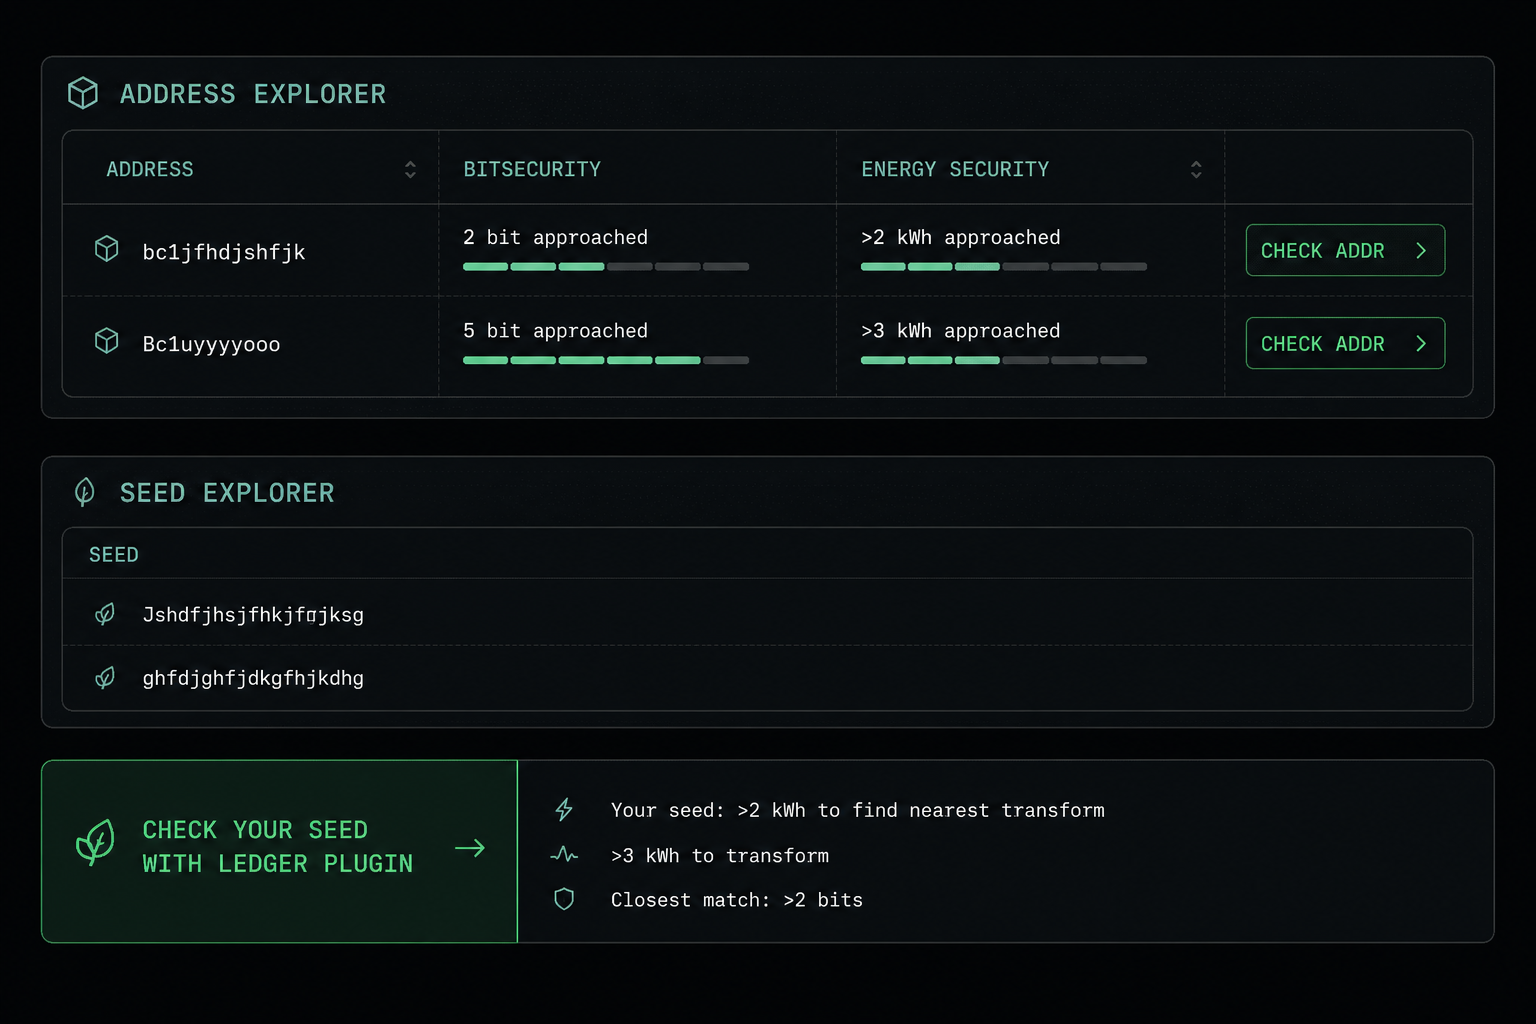
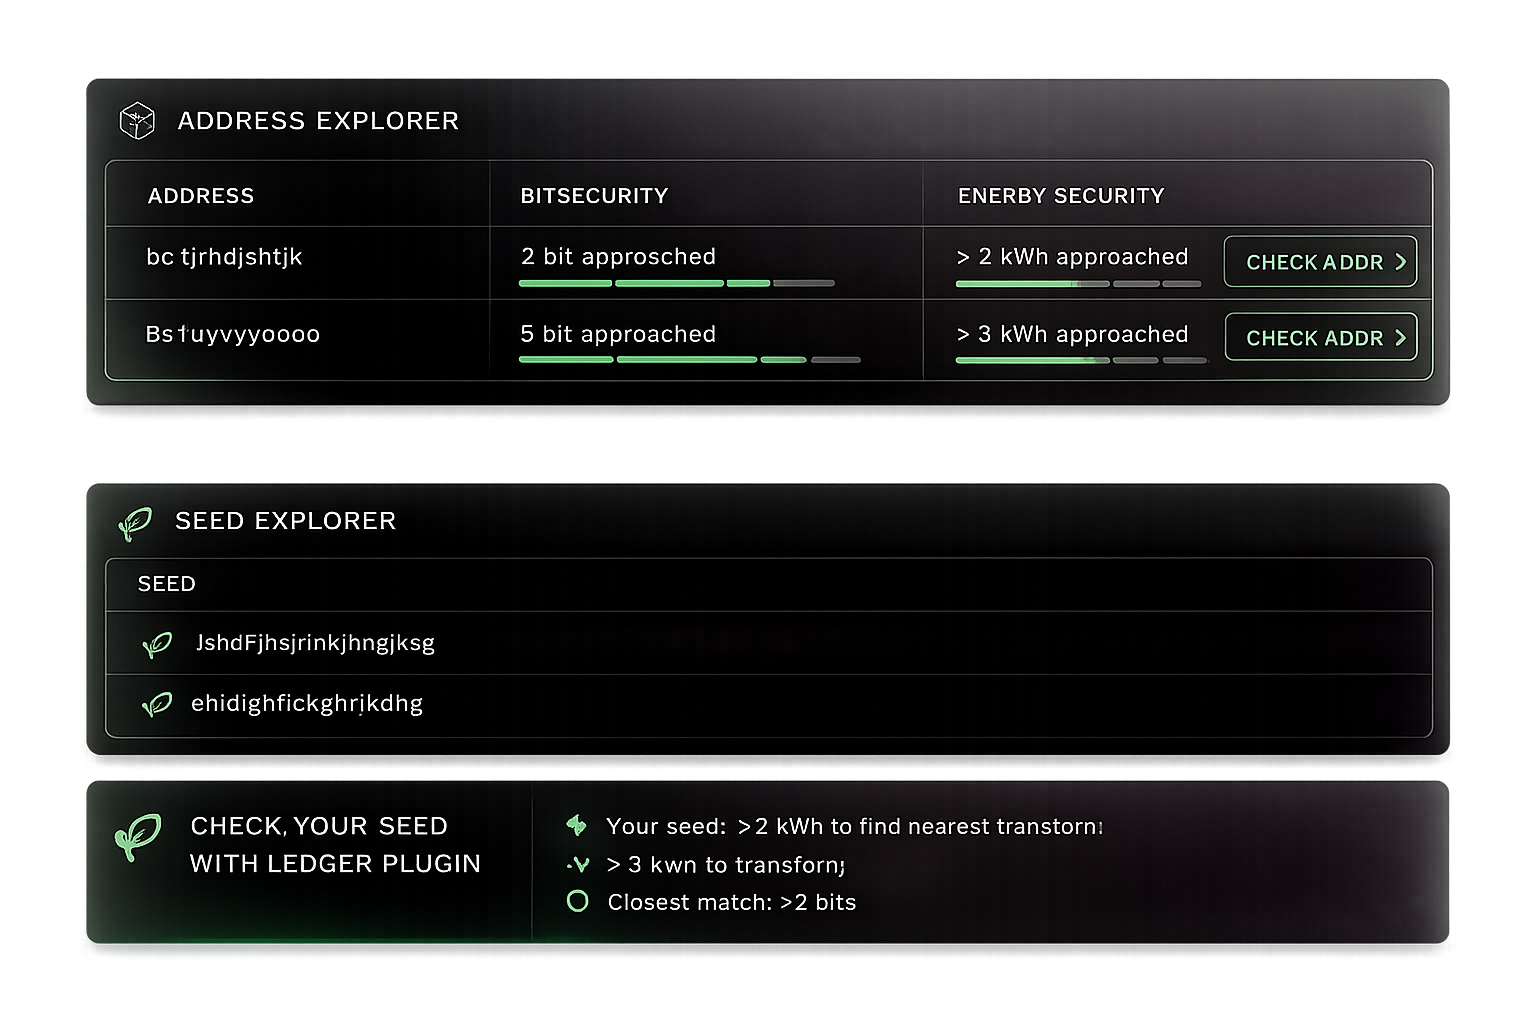
fix

diff --git a/front.html b/front.html
@@ -557,7 +557,7 @@ Notes:
     <div class="col-lg-4 col-md-6">
       <div class="card h-100 shadow-sm">
         <div class="placeholder">
-          <img src="./chats/btc-audit/docs/explorer.png"  style="opacity:0.5" width="400">
+          <img src="./chats/btc-audit/docs/explorer.png"  style="opacity:0.5; filter: contrast(0.7) blur(0.4px)" width="400">
 </div>
 </div>
 </div>
@@ -578,7 +578,7 @@ Notes:
 </div>
 </div>
 </div>
-<img src="./chats/btc-audit/docs/explorer-ui-draft.png" style="opacity:0.5" width="600">
+<img src="./chats/btc-audit/docs/explorer-ui-draft.png" style="opacity:0.3; filter: contrast(13)" width="600">
 </aside>
 <aside class="note">
   <p>